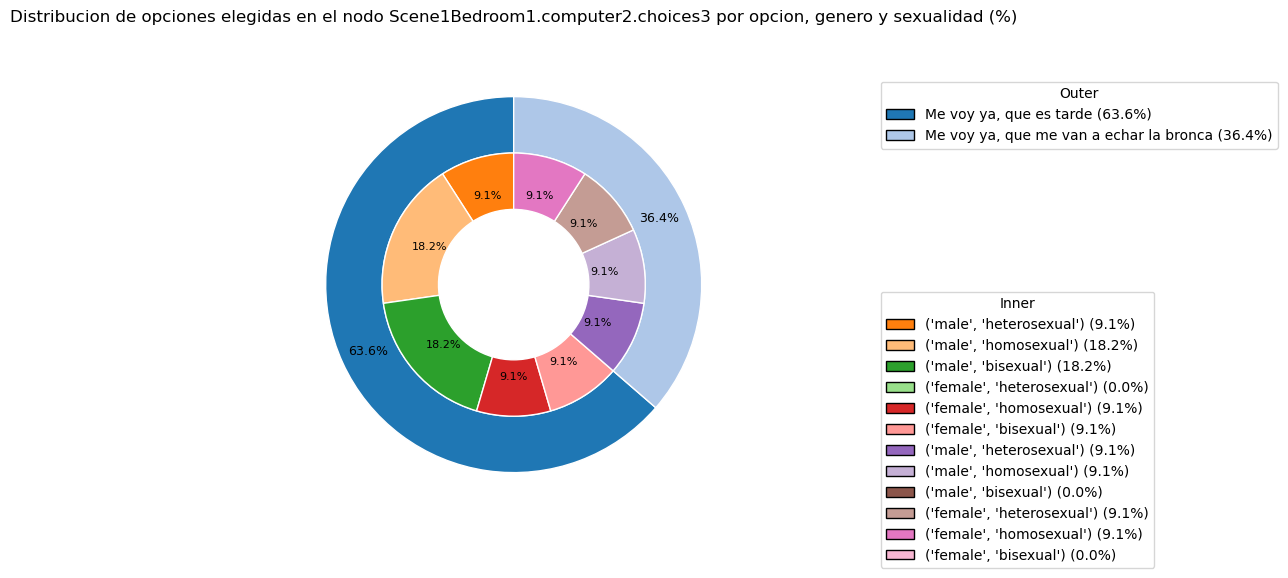
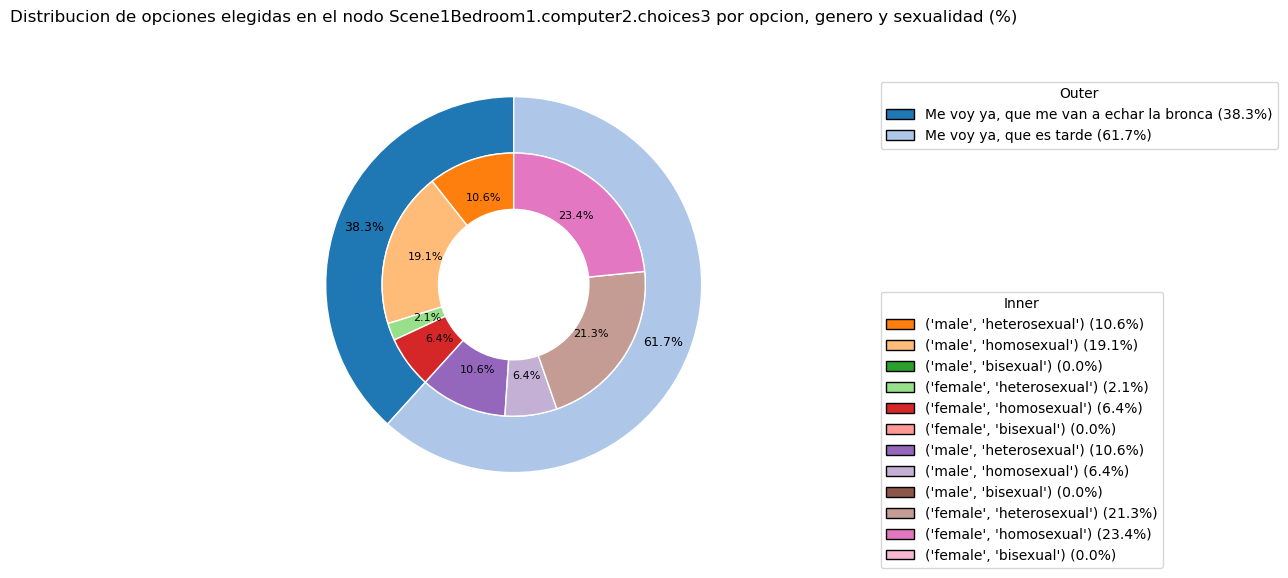
Discriminar nuestros usuarios de las encuestas

diff --git a/python/main.py b/python/main.py
@@ -30,7 +30,7 @@ n_users = len(users_individual_df_list)
 
 
 # Eliminar usuarios invalidos
-all_users_df = all_users_df[~all_users_df['actor.account.name'].isin(users_to_drop)]
+all_users_df = all_users_df[~all_users_df["actor.account.name"].isin(users_to_drop)]
 all_users_df = all_users_df.reset_index(drop=True)
 
 users_to_drop = set(users_to_drop)
@@ -47,12 +47,12 @@ game_starts = all_users_df.iloc[game_starts]
 game_starts = game_starts.drop_duplicates(subset=["actor.account.name"])
 
 gender_sexuality_combinations = [
-	('male', 'heterosexual'), 
-	('male', 'homosexual'), 
-	('male', 'bisexual'), 
-	('female', 'heterosexual'), 
-	('female', 'homosexual'), 
-	('female', 'bisexual')
+	("male", "heterosexual"), 
+	("male", "homosexual"), 
+	("male", "bisexual"), 
+	("female", "heterosexual"), 
+	("female", "homosexual"), 
+	("female", "bisexual")
 ]
 demography = game_starts[["actor.account.name", "Gender", "Sexuality"]].values.tolist()
 
@@ -460,14 +460,14 @@ graphics.display_bar_chart(df,title="Media diaria de tiempo de juego",ylabel="Ti
 
 
 ############################
-# APARTADO 2 a iii,
+# APARTADO 2 a iv,
 # Media de tiempo de juego en cada día.
 ############################
 
 game_ends = utils.find_indices_by_conditions(all_users_df, [("object.id", "GameEnd")])
 utils.show_metric(
 	section="2 a iv",
-	title="Porcentaje de usuarios que terminan el juego",
+	title="Media de tiempo de juego en cada día",
 	info=f"{len(game_ends) / len(users_individual_df_list) * 100}%"
 )
 
@@ -592,7 +592,7 @@ def average_transition_time(users_individual_df_list):
             pos = index_list.index(index)
             if pos + 1 < len(index_list):
                 next_idx = index_list[pos + 1]
-                if user.loc[next_idx, 'object.id'] == 'EnterScene':
+                if user.loc[next_idx, "object.id"] == "EnterScene":
                     value = utils.time_between_indices(user, index, next_idx)
                     durations.append(value)
                     cont+= value
@@ -649,7 +649,7 @@ def average_dialog_time(users_individual_df_list):
 
     text = ""
     for key, value in average.items():
-        text += f"Media para '{key}': {value:.2f}\n"
+        text += f"Media para {key}: {value:.2f}\n"
 
     all_values = [v for v in average.values()]
     overall_average = sum(all_values) / len(all_values)
@@ -660,7 +660,7 @@ def average_dialog_time(users_individual_df_list):
         title="Tiempo medio que se queda leyendo cada diálogo",
         info=""
     )
-    df_average = pd.DataFrame(list(average.items()), columns=['dialog', 'average'])
+    df_average = pd.DataFrame(list(average.items()), columns=["dialog", "average"])
     graphics.display_bar_chart(df_average,title="Media de tiempo en segundos de cada dialogo",ylabel="average",xlabel="dialog",bar_color="skyblue",sizex=80)
 
     total_mean= np.mean(user_durations)
@@ -770,7 +770,7 @@ def object_interactions():
 	counts_all = pd.Series(social_media).value_counts()
 
 	# Se filtran los elementos interactuables del entorno
-	validObj = {'closet', 'bed', 'computer', 'exitDoor', 'bedroomDoor', 'livingroomDoor'}
+	validObj = {"closet", "bed", "computer", "exitDoor", "bedroomDoor", "livingroomDoor"}
 
    # Mantener solo los válidos y rellenar con 0 los que falten
 	counts_valid = counts_all.reindex(validObj, fill_value=0)
@@ -815,9 +815,16 @@ surveys_path = "./encuestas/pre/"
 pre = loader.load_surveys(surveys_path, files_extension, cols_to_drop)
 graphics.display_df(pre, "Pretest")
 
+pre = pre[~pre["Código de acceso"].isin(users_to_drop)]
+pre = pre.reset_index(drop=True)
+
 surveys_path = "./encuestas/post/"
 post = loader.load_surveys(surveys_path, files_extension, cols_to_drop)
 graphics.display_df(post, "Postest")
+
+post = post[~post["Código de acceso"].isin(users_to_drop)]
+post = post.reset_index(drop=True)
+
 
 df= post.copy()
 df["Fecha de envío"] = pd.to_datetime(df["Fecha de envío"])
@@ -842,7 +849,7 @@ valid_post= post[~post["Código de acceso"].isin(ids_below_n)]
 
 def extract_num(x):
     try:
-        return int(str(x).split('-')[0].strip())
+        return int(str(x).split("-")[0].strip())
     except Exception:
         return -1
 
@@ -888,7 +895,7 @@ def survey_comparative(pre_df, post_df, code_col="Código de acceso"):
 		}
 		# Definimos el eje X y el título de la gráfica
 		x = range(1, len(columns_to_modify) + 1)  # Número de pregunta
-		title = f'Comparación persona ({code})'
+		title = f"Comparación persona ({code})"
 		# Llamamos a la función para mostrar la gráfica
 		graphics.display_line(
 			data_dict,
@@ -923,7 +930,7 @@ for question in questions:
 	df = pd.Series(post[question]).value_counts()
 	df = df.sort_index()
 	# display(df)
-	graphics.display_pie_chart(df.values, df.index, question)
+	graphics.display_pie_chart(df.values, df.index, question.replace("?", ""))
 
 
 ###########################
@@ -935,7 +942,7 @@ questions = ["¿Cómo de acuerdo estás con las siguientes afirmaciones? [El jue
 for question in questions:
 	df = pd.Series(post[question]).value_counts()
 	df = df.sort_index()
-	graphics.display_pie_chart(df.values, df.index, question)
+	graphics.display_pie_chart(df.values, df.index, question.replace("?", ""))
 
 
 question = "¿Qué opinas del juego?"

diff --git a/python/graphics.py b/python/graphics.py
@@ -4,7 +4,7 @@ import numpy as np
 from PIL import Image
 import loader
 
-save_graphics = False
+save_graphics = True
 output_directory = "./output/"
 
 def show_graphic(title):
